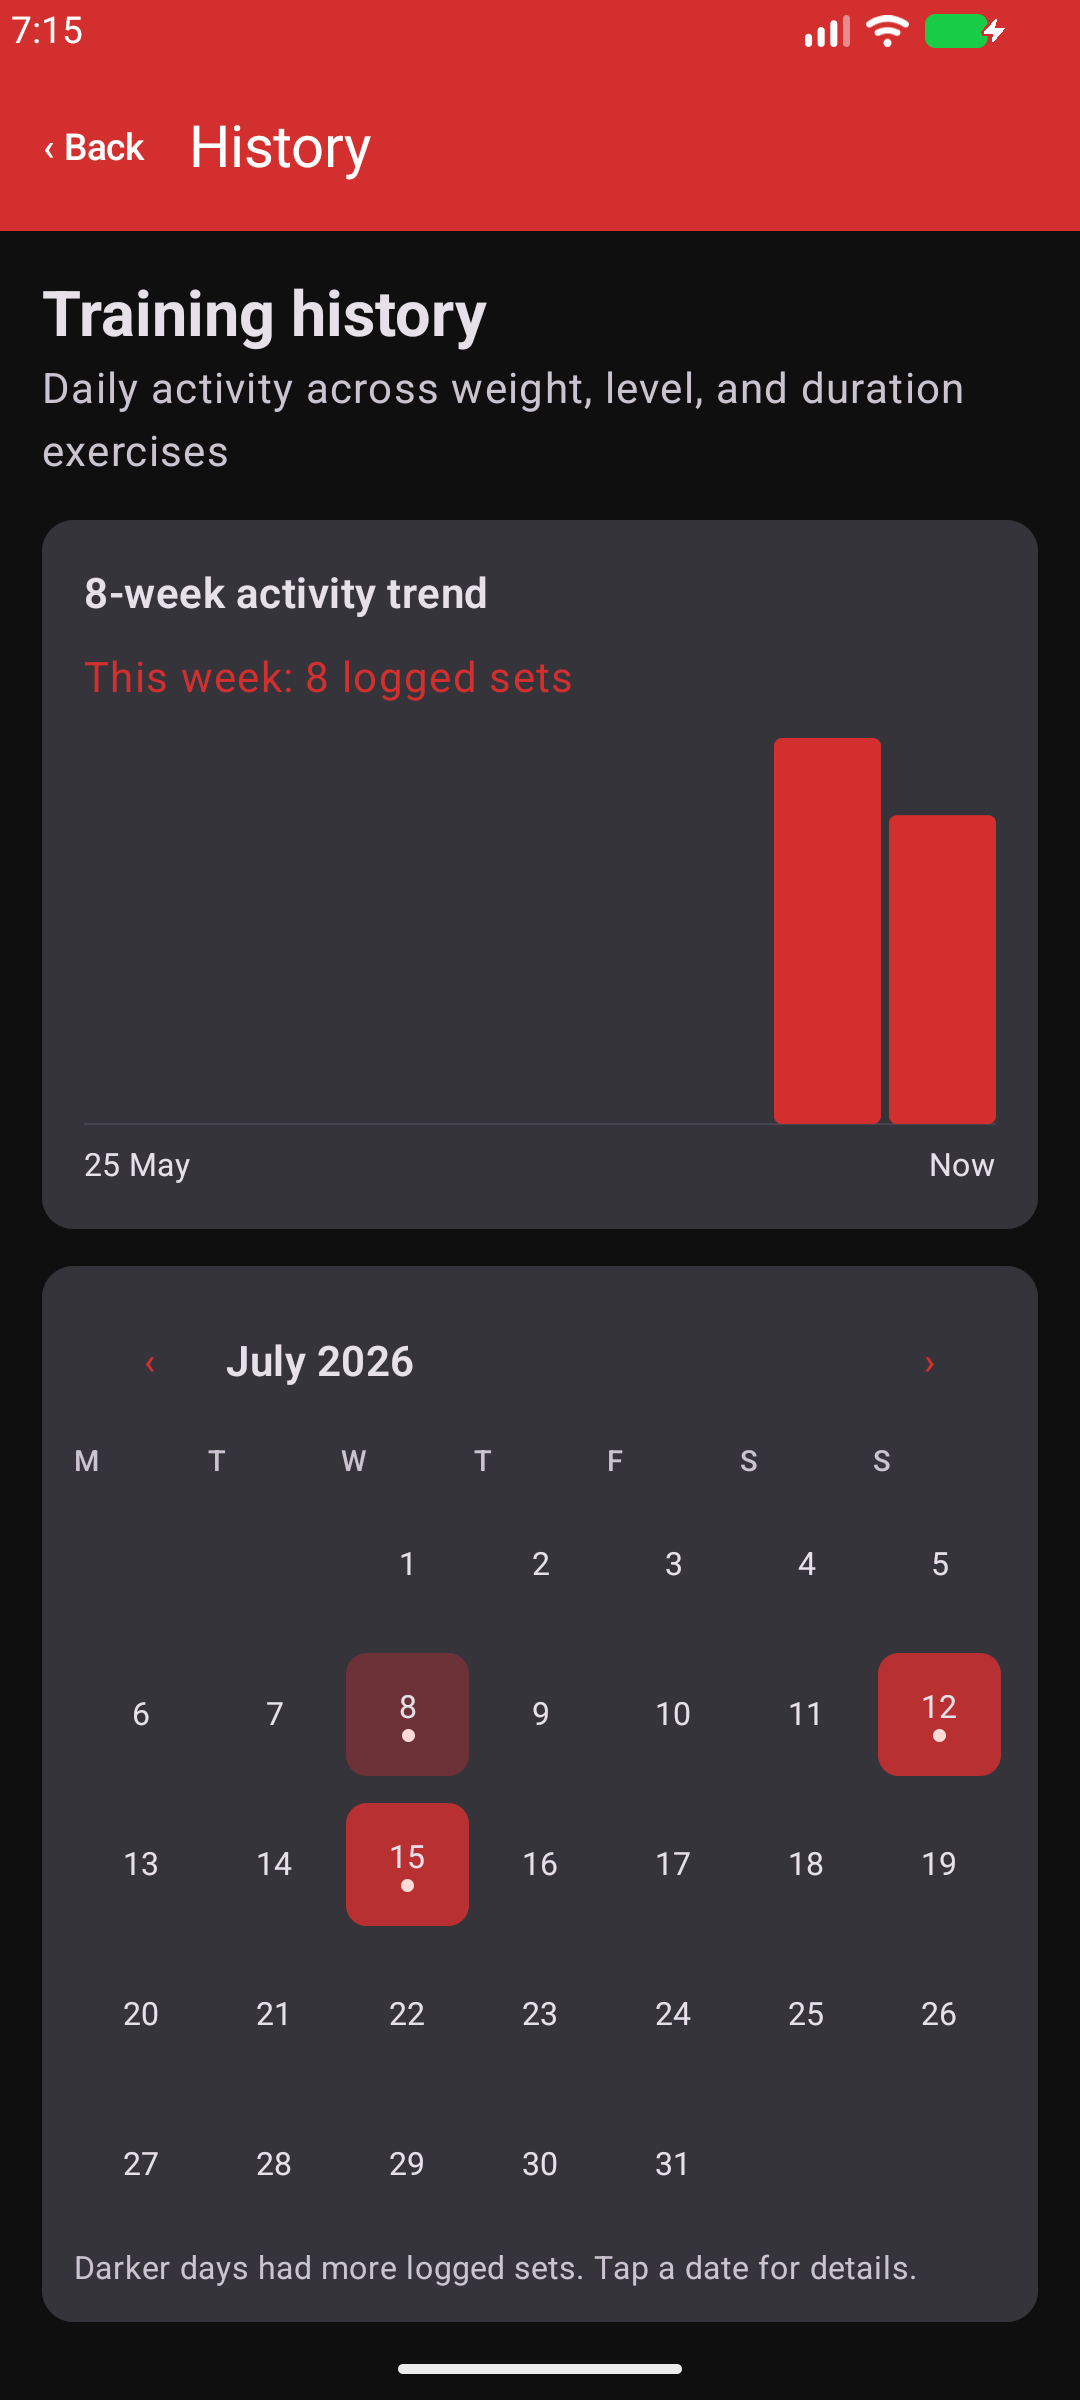
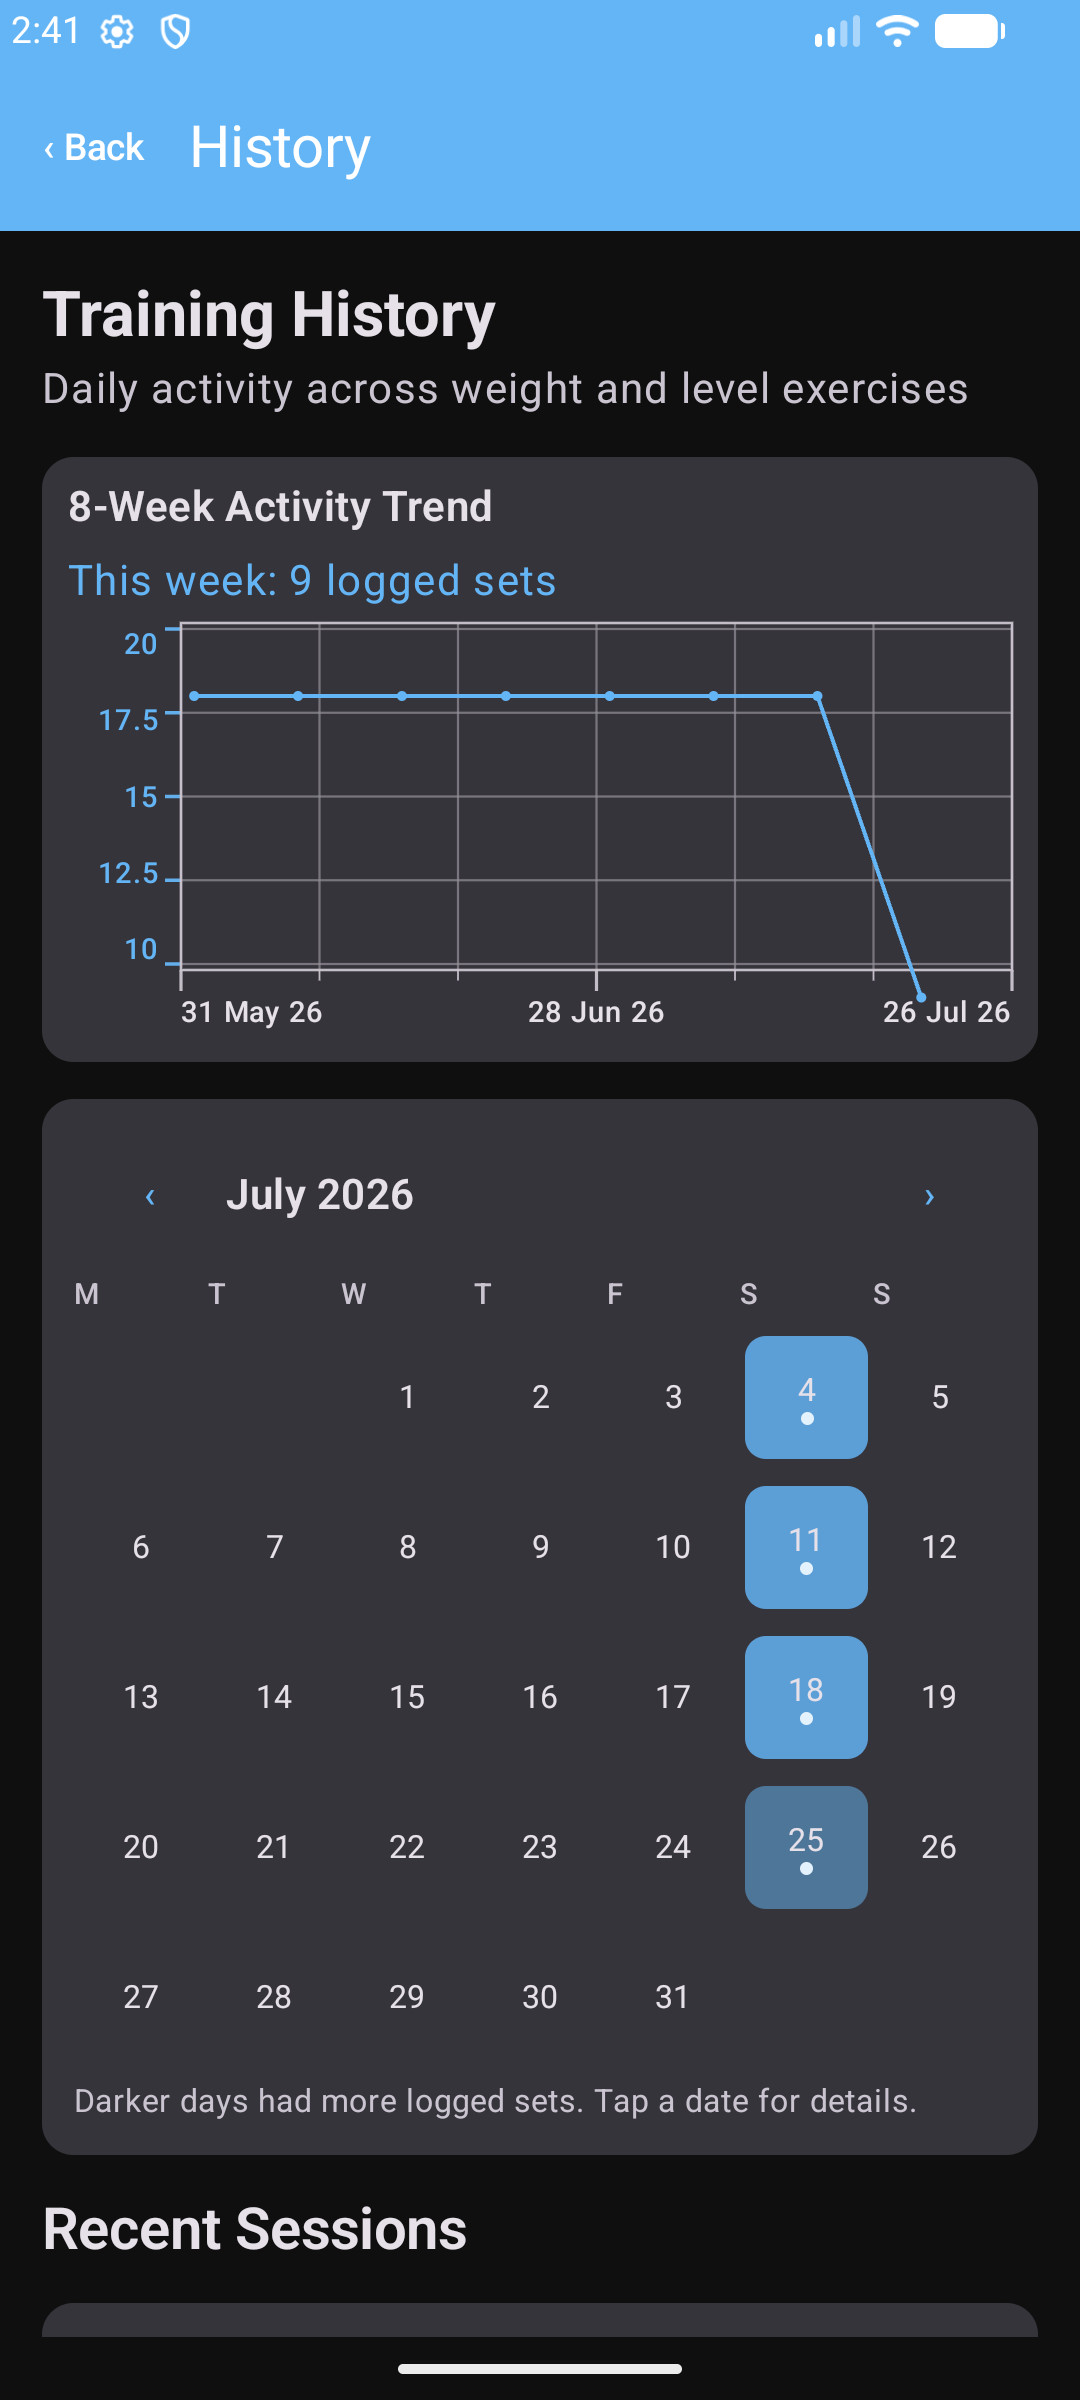
did: maake minor ticks smaller. eg on x axis. have ,ore sapce between tick mark and nomubner on y axis. also have the plot use less hrozonal padding outside. make the text "Reps/set . Weight . Volume/training" and have it centered. make the estiamte and the linear fit depend on the selected interval
Update the screenshots in readme

and fix paths for readme and github

diff --git a/app/app/src/main/java/com/gymlog/app/ui/TimeWindowChart.kt b/app/app/src/main/java/com/gymlog/app/ui/TimeWindowChart.kt
@@ -24,6 +24,7 @@ import androidx.compose.ui.geometry.Size
 import androidx.compose.ui.graphics.Color
 import androidx.compose.ui.graphics.PathEffect
 import androidx.compose.ui.graphics.StrokeCap
+import androidx.compose.ui.graphics.drawscope.Stroke
 import androidx.compose.ui.text.font.FontWeight
 import androidx.compose.ui.text.style.TextAlign
 import androidx.compose.ui.unit.Dp
@@ -94,23 +95,32 @@ private fun niceCeiling(value: Double): Double {
     return nice * magnitude
 }
 
-private fun chartAxisRange(values: List<Double>): AxisRange {
+private fun chartAxisRange(values: List<Double>, tickCounts: IntRange): AxisRange {
+    val allowedCounts = tickCounts.filter { it >= 3 }.ifEmpty { listOf(3) }
     val finite = values.filter(Double::isFinite)
-    if (finite.isEmpty()) return AxisRange(0.0, 1.0, listOf(0.0, 0.25, 0.5, 0.75, 1.0))
+    if (finite.isEmpty()) {
+        val count = allowedCounts.first()
+        return AxisRange(0.0, 1.0, List(count) { it.toDouble() / (count - 1) })
+    }
     var rawMin = finite.min()
     var rawMax = finite.max()
     val rawSpan = rawMax - rawMin
-    val padding = if (rawSpan == 0.0) maxOf(abs(rawMax) * 0.02, 0.5) else rawSpan * 0.02
+    val padding = if (rawSpan == 0.0) maxOf(abs(rawMax) * 0.015, 0.25) else rawSpan * 0.015
     rawMin -= padding
     rawMax += padding
-    val step = niceCeiling((rawMax - rawMin) / (Y_TICK_COUNT - 1))
-    var minimum = floor(rawMin / step) * step
-    var maximum = minimum + step * (Y_TICK_COUNT - 1)
-    if (maximum < rawMax) {
-        maximum = ceil(rawMax / step) * step
-        minimum = maximum - step * (Y_TICK_COUNT - 1)
+    val paddedSpan = (rawMax - rawMin).coerceAtLeast(1e-9)
+    return allowedCounts.map { count ->
+        val step = niceCeiling(paddedSpan / (count - 1))
+        var minimum = floor(rawMin / step) * step
+        var maximum = minimum + step * (count - 1)
+        if (maximum < rawMax) {
+            maximum = ceil(rawMax / step) * step
+            minimum = maximum - step * (count - 1)
+        }
+        AxisRange(minimum, maximum, List(count) { minimum + step * it })
+    }.minBy { range ->
+        range.span / paddedSpan + (range.ticks.size - allowedCounts.first()) * 0.01
     }
-    return AxisRange(minimum, maximum, List(Y_TICK_COUNT) { minimum + step * it })
 }
 
 internal fun trendTimeSeries(points: List<TimeValue>, color: Color, axis: PlotAxis): TimeSeries {
@@ -240,7 +250,6 @@ private fun ChartDateLabels(start: Long, end: Long, width: Dp) {
     }
 }
 
-private const val Y_TICK_COUNT = 5
 private const val X_GRID_COUNT = 7
 private const val CHART_INSET = 6f
 private const val DAY_MILLIS_SHARED = 24L * 60L * 60L * 1000L
@@ -256,6 +265,7 @@ internal fun TimeWindowChart(
     formatLeft: (Double) -> String,
     formatRight: (Double) -> String = formatLeft,
     height: Dp = 132.dp,
+    yTickCounts: IntRange = 5..5,
 ) {
     val sortedSeries = series.map { item -> item.copy(points = item.points.sortedBy(TimeValue::timestamp)) }
     val allPoints = sortedSeries.flatMap(TimeSeries::points)
@@ -270,9 +280,9 @@ internal fun TimeWindowChart(
         .filter { it.timestamp in visibleStart..visibleEnd }
         .map(TimeValue::value)
     val bandValues = bands.flatMap { listOf(it.center - it.tolerance, it.center, it.center + it.tolerance) }
-    val leftRange = chartAxisRange(visibleValues(PlotAxis.LEFT) + bandValues)
-    val rightRange = chartAxisRange(visibleValues(PlotAxis.RIGHT))
-    val independentRange = chartAxisRange(visibleValues(PlotAxis.INDEPENDENT))
+    val leftRange = chartAxisRange(visibleValues(PlotAxis.LEFT) + bandValues, yTickCounts)
+    val rightRange = chartAxisRange(visibleValues(PlotAxis.RIGHT), yTickCounts)
+    val independentRange = chartAxisRange(visibleValues(PlotAxis.INDEPENDENT), yTickCounts)
     val hasRightAxis = rightColor != null && sortedSeries.any { it.axis == PlotAxis.RIGHT }
     val gridColor = MaterialTheme.colorScheme.outline.copy(alpha = 0.72f)
     val xAxisColor = MaterialTheme.colorScheme.onSurfaceVariant.copy(alpha = 0.95f)
@@ -280,30 +290,36 @@ internal fun TimeWindowChart(
     val rightAxisColor = (rightColor ?: xAxisColor).copy(alpha = 0.95f)
 
     BoxWithConstraints(modifier.fillMaxWidth()) {
-        val labelWidth = 39.dp
-        val tickWidth = 9.dp
-        val rightLabelWidth = if (hasRightAxis) 39.dp else 0.dp
+        val labelWidth = 34.dp
+        val labelGap = 3.dp
+        val tickWidth = 6.dp
+        val rightLabelWidth = if (hasRightAxis) 34.dp else 0.dp
+        val rightLabelGap = if (hasRightAxis) labelGap else 0.dp
         val rightTickWidth = if (hasRightAxis) tickWidth else 0.dp
-        val plotWidth = (maxWidth - labelWidth - tickWidth - rightTickWidth - rightLabelWidth).coerceAtLeast(1.dp)
+        val plotWidth = (
+            maxWidth - labelWidth - labelGap - tickWidth - rightTickWidth - rightLabelGap - rightLabelWidth
+        ).coerceAtLeast(1.dp)
         Column {
             Row {
                 ChartAxisLabels(leftRange, leftColor, formatLeft, labelWidth, height, true)
+                Box(Modifier.width(labelGap))
                 Canvas(Modifier.width(tickWidth).height(height)) {
-                    repeat(Y_TICK_COUNT) { index ->
-                        val y = CHART_INSET + index * (size.height - CHART_INSET * 2f) / (Y_TICK_COUNT - 1)
+                    repeat(leftRange.ticks.size) { index ->
+                        val y = CHART_INSET + index * (size.height - CHART_INSET * 2f) / (leftRange.ticks.size - 1)
                         drawLine(leftAxisColor, Offset(size.width, y), Offset(0f, y), strokeWidth = 3.5f)
                     }
                 }
                 Box(Modifier.width(plotWidth).height(height)) {
                     Canvas(Modifier.fillMaxSize()) {
-                        repeat(Y_TICK_COUNT) { index ->
-                            val y = CHART_INSET + index * (size.height - CHART_INSET * 2f) / (Y_TICK_COUNT - 1)
+                        repeat(leftRange.ticks.size) { index ->
+                            val y = CHART_INSET + index * (size.height - CHART_INSET * 2f) / (leftRange.ticks.size - 1)
                             drawLine(gridColor, Offset(0f, y), Offset(size.width, y), strokeWidth = 2.2f)
                         }
                         repeat(X_GRID_COUNT) { index ->
                             val x = index * size.width / (X_GRID_COUNT - 1)
                             drawLine(gridColor, Offset(x, 0f), Offset(x, size.height), strokeWidth = 2.2f)
                         }
+                        drawRect(xAxisColor, style = Stroke(width = 2.6f))
                     }
                     Canvas(Modifier.fillMaxSize()) {
                         fun x(timestamp: Long) =
@@ -353,21 +369,28 @@ internal fun TimeWindowChart(
                 }
                 if (hasRightAxis) {
                     Canvas(Modifier.width(rightTickWidth).height(height)) {
-                        repeat(Y_TICK_COUNT) { index ->
-                            val y = CHART_INSET + index * (size.height - CHART_INSET * 2f) / (Y_TICK_COUNT - 1)
+                        repeat(rightRange.ticks.size) { index ->
+                            val y = CHART_INSET + index * (size.height - CHART_INSET * 2f) / (rightRange.ticks.size - 1)
                             drawLine(rightAxisColor, Offset(0f, y), Offset(size.width, y), strokeWidth = 3.5f)
                         }
                     }
+                    Box(Modifier.width(rightLabelGap))
                     ChartAxisLabels(rightRange, rightColor!!, formatRight, rightLabelWidth, height, false)
                 }
             }
             Row {
-                Box(Modifier.width(labelWidth + tickWidth))
+                Box(Modifier.width(labelWidth + labelGap + tickWidth))
                 Column {
-                    Canvas(Modifier.width(plotWidth).height(9.dp)) {
+                    Canvas(Modifier.width(plotWidth).height(8.dp)) {
                         repeat(X_GRID_COUNT) { index ->
                             val x = index * size.width / (X_GRID_COUNT - 1)
-                            drawLine(xAxisColor, Offset(x, 0f), Offset(x, size.height), strokeWidth = 3.5f)
+                            val major = index == 0 || index == (X_GRID_COUNT - 1) / 2 || index == X_GRID_COUNT - 1
+                            drawLine(
+                                xAxisColor,
+                                Offset(x, 0f),
+                                Offset(x, if (major) size.height else size.height * 0.5f),
+                                strokeWidth = if (major) 3.2f else 1.8f,
+                            )
                         }
                     }
                     ChartDateLabels(visibleStart, visibleEnd, plotWidth)

diff --git a/app/app/src/main/java/com/gymlog/app/ui/BodyOverviewScreen.kt b/app/app/src/main/java/com/gymlog/app/ui/BodyOverviewScreen.kt
@@ -101,7 +101,7 @@ fun BodyOverviewScreen(
         } else {
             chartWindowDuration(window)
         },
-        endMillis = if (window == "CUSTOM") customEnd else newestMeasurement,
+        endMillis = if (window == "CUSTOM") customEnd else System.currentTimeMillis(),
         startMillis = if (window == "CUSTOM") customStart else null,
         key = "$window:$customStart:$customEnd",
     )
@@ -184,10 +184,11 @@ fun BodyOverviewScreen(
         confirmButton = { TextButton(onClick = { showBodyMenu = false }) { Text("Close") } },
     )
     if (showCustomRange) {
+        val now = System.currentTimeMillis()
         CustomBodyRangeDialog(
-            maxTimestamp = newestMeasurement,
-            initialStart = customStart ?: bodyWindowStart("1M", newestMeasurement, oldestMeasurement),
-            initialEnd = customEnd ?: newestMeasurement,
+            maxTimestamp = now,
+            initialStart = customStart ?: bodyWindowStart("1M", now, oldestMeasurement),
+            initialEnd = customEnd ?: now,
             onDismiss = { showCustomRange = false },
             onSave = { start, end ->
                 customStart = start
@@ -211,10 +212,21 @@ private fun BodyMetricCard(
 ) {
     var editing by remember { mutableStateOf(false) }
     val sorted = values.sortedBy { it.measuredAt }
-    val fit = bodyLinearFit(sorted)
+    val intervalValues = if (sorted.isEmpty()) {
+        emptyList()
+    } else {
+        val range = calculateVisibleTimeRange(sorted.first().measuredAt, sorted.last().measuredAt, window)
+        sorted.filter { it.measuredAt in range.start..range.end }
+    }
+    val fit = bodyLinearFit(intervalValues)
+    val fitPoints = fit.values.mapIndexed { index, value ->
+        TimeValue(intervalValues[index].measuredAt, value)
+    }
     val latest = sorted.lastOrNull()
     val targetEta = settings.target?.let { target ->
-        ((target - fit.fittedLast) / fit.slopePerDay).takeIf { sorted.size >= 2 && fit.slopePerDay != 0.0 && it >= 0.0 }
+        ((target - fit.fittedLast) / fit.slopePerDay).takeIf {
+            intervalValues.size >= 2 && fit.slopePerDay != 0.0 && it >= 0.0
+        }
     }
     val primary = MaterialTheme.colorScheme.primary
     val fitColor = MaterialTheme.colorScheme.tertiary
@@ -236,7 +248,7 @@ private fun BodyMetricCard(
                     style = MaterialTheme.typography.labelMedium,
                 )
             }
-            if (showTrend && sorted.size >= 2) {
+            if (showTrend && intervalValues.size >= 2) {
                 Text(
                     "Linear fit: ${String.format(Locale.US, "%+.2f", fit.slopePerDay * 30.44)} ${metric.unit} / month",
                     color = fitColor,
@@ -252,7 +264,15 @@ private fun BodyMetricCard(
                     style = MaterialTheme.typography.bodySmall,
                 )
             }
-            BodyGraph(sorted, if (showTrend) fit.values else emptyList(), settings, primary, fitColor, targetColor, window)
+            BodyGraph(
+                sorted,
+                if (showTrend) fitPoints else emptyList(),
+                settings,
+                primary,
+                fitColor,
+                targetColor,
+                window,
+            )
         }
     }
     if (editing) BodyChartSettingsDialog(metric, settings, { editing = false }) {
@@ -264,7 +284,7 @@ private fun BodyMetricCard(
 @Composable
 private fun BodyGraph(
     values: List<BodyMeasurement>,
-    fit: List<Double>,
+    fit: List<TimeValue>,
     settings: BodyChartSettings,
     dataColor: Color,
     fitColor: Color,
@@ -282,13 +302,7 @@ private fun BodyGraph(
             add(TimeSeries(values.map { TimeValue(it.measuredAt, it.value) }, dataColor))
             if (fit.isNotEmpty()) {
                 add(
-                    TimeSeries(
-                        fit.mapIndexed { index, value -> TimeValue(values[index].measuredAt, value) },
-                        fitColor,
-                        strokeWidth = 2.5f,
-                        dashed = true,
-                        showPoints = false,
-                    ),
+                    TimeSeries(fit, fitColor, strokeWidth = 2.5f, dashed = true, showPoints = false),
                 )
             }
         },
@@ -297,6 +311,7 @@ private fun BodyGraph(
             listOf(TimeBand(target, settings.acceptance ?: 0.0, targetColor))
         }.orEmpty(),
         formatLeft = ::formatBodyValue,
+        yTickCounts = 3..5,
     )
 }
 

diff --git a/app/app/src/main/java/com/gymlog/app/ui/DetailScreen.kt b/app/app/src/main/java/com/gymlog/app/ui/DetailScreen.kt
@@ -129,7 +129,7 @@ fun DetailScreen(
                     durationMillis = if (machine.chartWindow == "CUSTOM") {
                         customChartStart?.let { start -> customChartEnd?.let { end -> (end - start).coerceAtLeast(1L) } }
                     } else chartWindowDuration(machine.chartWindow),
-                    endMillis = if (machine.chartWindow == "CUSTOM") customChartEnd else summary.recentSets.maxOfOrNull { it.performedAt },
+                    endMillis = if (machine.chartWindow == "CUSTOM") customChartEnd else System.currentTimeMillis(),
                     startMillis = if (machine.chartWindow == "CUSTOM") customChartStart else null,
                     key = "${machine.chartWindow}:$customChartStart:$customChartEnd",
                 )
@@ -228,9 +228,9 @@ fun DetailScreen(
         } else null,
     )
     if (showCustomChartRange) CustomGymRangeDialog(
-        maxTimestamp = summary.recentSets.maxOfOrNull { it.performedAt } ?: System.currentTimeMillis(),
+        maxTimestamp = System.currentTimeMillis(),
         initialStart = customChartStart ?: chartCutoff("1M") ?: System.currentTimeMillis(),
-        initialEnd = customChartEnd ?: (summary.recentSets.maxOfOrNull { it.performedAt } ?: System.currentTimeMillis()),
+        initialEnd = customChartEnd ?: System.currentTimeMillis(),
         onDismiss = { showCustomChartRange = false },
         onSave = { start, end ->
             customChartStart = start; customChartEnd = end
@@ -324,11 +324,16 @@ private fun DualAxisSessionPlot(
     val repsColor = Color(0xFFFFA726)
     val weightColor = MaterialTheme.colorScheme.primary
     val volumeColor = Color(0xFF00BCD4)
-    Row(horizontalArrangement = Arrangement.spacedBy(3.dp), verticalAlignment = Alignment.CenterVertically) {
-        Text(if (strength) "Level" else "Reps / set", color = repsColor, style = MaterialTheme.typography.labelSmall)
-        Text("/", style = MaterialTheme.typography.labelSmall)
+    Row(
+        Modifier.fillMaxWidth(),
+        horizontalArrangement = Arrangement.Center,
+        verticalAlignment = Alignment.CenterVertically,
+    ) {
+        Text(if (strength) "Level" else "Reps/set", color = repsColor, style = MaterialTheme.typography.labelSmall)
+        Text(" · ", style = MaterialTheme.typography.labelSmall)
         Text(if (strength) "Minutes" else "Weight", color = weightColor, style = MaterialTheme.typography.labelSmall)
-        Text("· Volume / training day", color = volumeColor, style = MaterialTheme.typography.labelSmall)
+        Text(" · ", style = MaterialTheme.typography.labelSmall)
+        Text("Volume/training", color = volumeColor, style = MaterialTheme.typography.labelSmall)
     }
     val reps = sessions.map { session ->
         TimeValue(session.maxOf { it.performedAt }, session.map { it.reps }.average())

diff --git a/app/app/src/main/java/com/gymlog/app/ui/StatsScreen.kt b/app/app/src/main/java/com/gymlog/app/ui/StatsScreen.kt
@@ -148,7 +148,7 @@ fun StatsScreen(
         durationMillis = if (window == "CUSTOM") {
             customStart?.let { start -> customEnd?.let { end -> (end - start).coerceAtLeast(1L) } }
         } else chartWindowDuration(window),
-        endMillis = if (window == "CUSTOM") customEnd else newestEntry,
+        endMillis = if (window == "CUSTOM") customEnd else System.currentTimeMillis(),
         startMillis = if (window == "CUSTOM") customStart else null,
         key = window,
     )
@@ -240,9 +240,9 @@ fun StatsScreen(
     }
     if (showCustomRange) {
         CustomBodyRangeDialog(
-            maxTimestamp = newestEntry,
+            maxTimestamp = System.currentTimeMillis(),
             initialStart = customStart ?: oldestEntry,
-            initialEnd = customEnd ?: newestEntry,
+            initialEnd = customEnd ?: System.currentTimeMillis(),
             onDismiss = { showCustomRange = false },
             onSave = { start, end ->
                 customStart = start

diff --git a/README.md b/README.md
@@ -5,7 +5,7 @@
 </p>
 
 <p align="center">
-  A privacy-first Android workout tracker for fast logging, useful progression insights, and body-measurement trends.
+  An Android workout & weight tracker for logging, stats, plotting, and trends.
 </p>
 
 <p align="center">
@@ -18,7 +18,7 @@ GymLog is built with Kotlin, Jetpack Compose, SQLite, and Health Connect. Workou
 
 ## Features
 
-- Fast weight-, level-, and duration-based workout logging
+- Convenient weight-, level-, and duration-based workout logging
 - Multiple independent training plans
 - Automatic, mixed pinned, and fully fixed exercise ordering
 - Editable history, progression warnings, and live-training status
